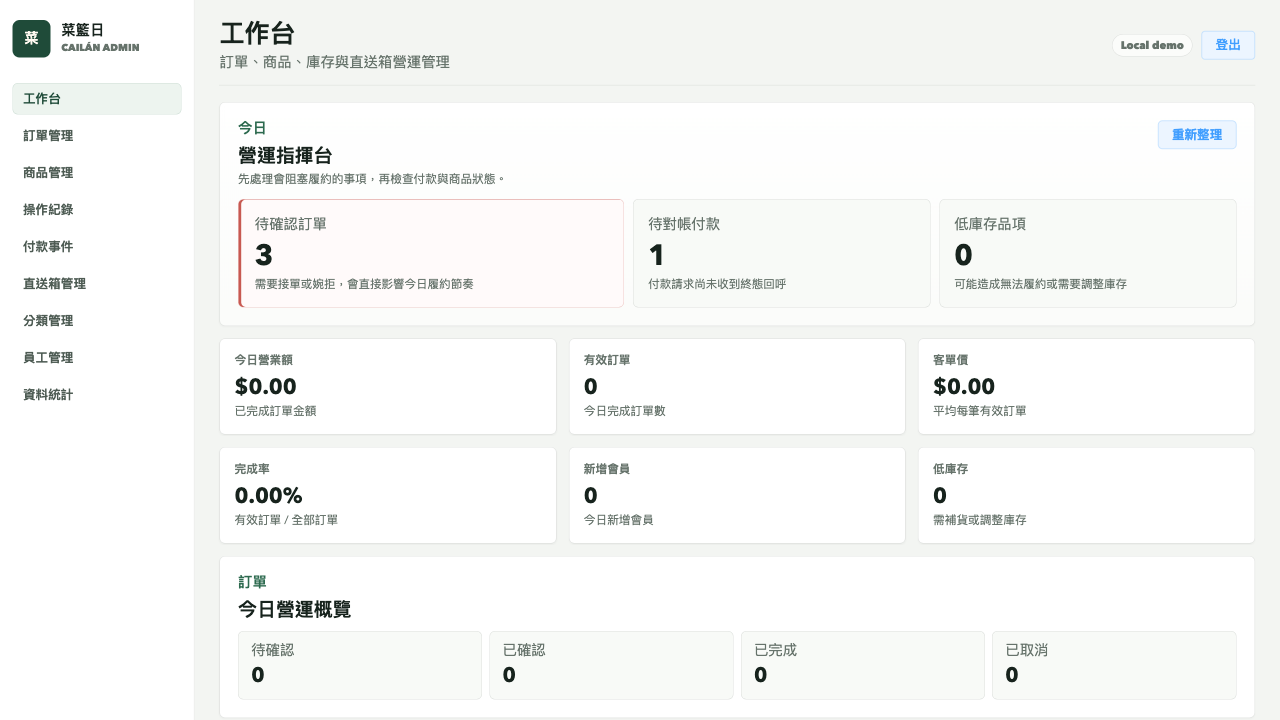
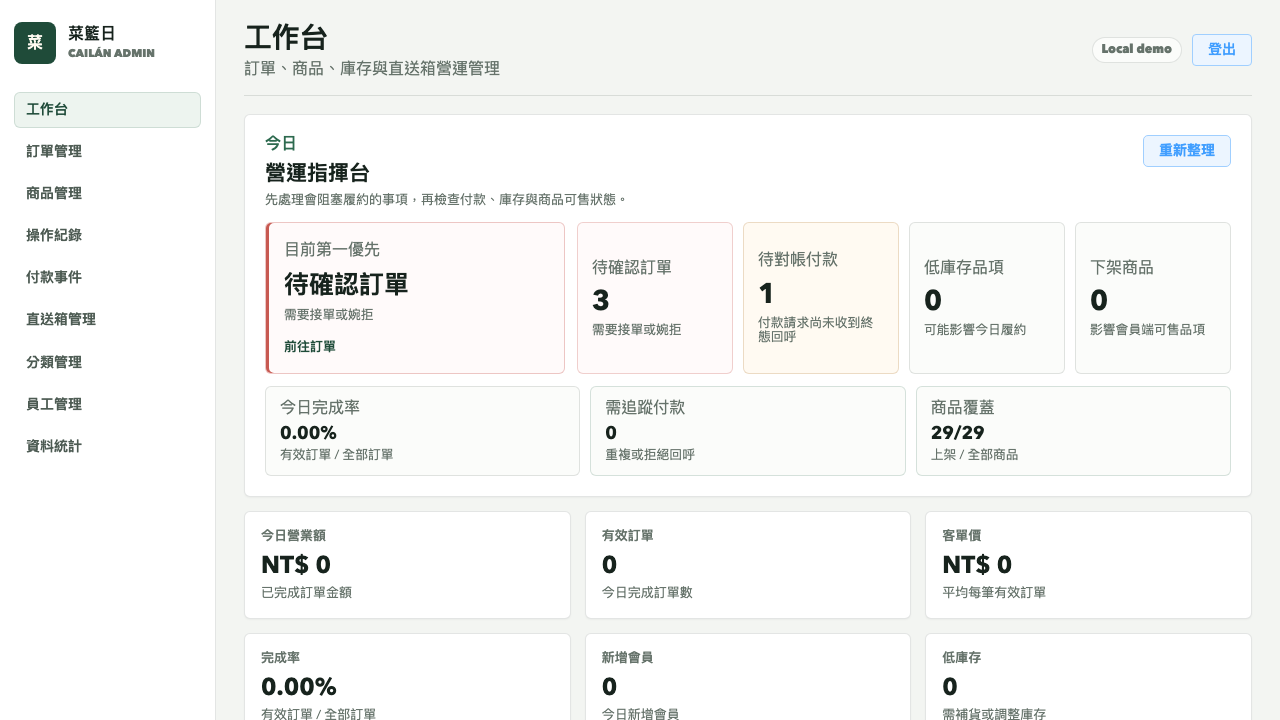
style: sharpen admin operations dashboard

diff --git a/frontend-environment/local-fresh-admin/src/views/vue3/DashboardView.vue b/frontend-environment/local-fresh-admin/src/views/vue3/DashboardView.vue
@@ -5,27 +5,41 @@
         <div>
           <p class="eyebrow">今日</p>
           <h2>營運指揮台</h2>
-          <span class="section-copy">先處理會阻塞履約的事項，再檢查付款與商品狀態。</span>
+          <span class="section-copy">先處理會阻塞履約的事項，再檢查付款、庫存與商品可售狀態。</span>
         </div>
         <el-button type="primary" plain @click="loadDashboard">重新整理</el-button>
       </div>
 
-      <div class="command-layout">
-        <button class="command-primary" type="button" @click="goToOrders(2)">
-          <span>待確認訂單</span>
-          <strong>{{ pendingOrders.length }}</strong>
-          <small>需要接單或婉拒，會直接影響今日履約節奏</small>
+      <div class="command-board">
+        <button class="priority-card" :class="primaryPriority.tone" type="button" @click="primaryPriority.onClick">
+          <span>目前第一優先</span>
+          <strong>{{ primaryPriority.label }}</strong>
+          <small>{{ primaryPriority.caption }}</small>
+          <b>{{ primaryPriority.actionLabel }}</b>
         </button>
-        <button class="command-secondary" type="button" @click="goToPaymentEvents({ result: 'PENDING' })">
-          <span>待對帳付款</span>
-          <strong>{{ pendingPaymentRequests.length }}</strong>
-          <small>付款請求尚未收到終態回呼</small>
-        </button>
-        <button class="command-secondary" type="button" @click="goToProducts(undefined, true)">
-          <span>低庫存品項</span>
-          <strong>{{ lowStockProducts.length }}</strong>
-          <small>可能造成無法履約或需要調整庫存</small>
-        </button>
+
+        <div class="priority-queue" aria-label="今日工作隊列">
+          <button
+            v-for="item in priorityCards"
+            :key="item.label"
+            class="queue-tile"
+            :class="item.tone"
+            type="button"
+            @click="item.onClick"
+          >
+            <span>{{ item.label }}</span>
+            <strong>{{ item.value }}</strong>
+            <small>{{ item.caption }}</small>
+          </button>
+        </div>
+      </div>
+
+      <div class="health-strip" aria-label="今日營運健康度">
+        <div v-for="item in healthIndicators" :key="item.label" class="health-item" :class="item.tone">
+          <span>{{ item.label }}</span>
+          <strong>{{ item.value }}</strong>
+          <small>{{ item.caption }}</small>
+        </div>
       </div>
     </article>
 
@@ -283,6 +297,70 @@ const orderCards = computed(() => [
 const paymentAttentionCount = computed(() => {
   return recentPaymentEvents.value.filter((item) => ['IGNORED', 'REJECTED'].includes(item.result)).length
 })
+const priorityCards = computed(() => [
+  {
+    label: '待確認訂單',
+    value: pendingOrders.value.length,
+    caption: '需要接單或婉拒',
+    actionLabel: '前往訂單',
+    tone: pendingOrders.value.length ? 'danger' : 'neutral',
+    onClick: () => goToOrders(2)
+  },
+  {
+    label: '待對帳付款',
+    value: pendingPaymentRequests.value.length,
+    caption: '付款請求尚未收到終態回呼',
+    actionLabel: '查看付款',
+    tone: pendingPaymentRequests.value.length ? 'warning' : 'neutral',
+    onClick: () => goToPaymentEvents({ result: 'PENDING' })
+  },
+  {
+    label: '低庫存品項',
+    value: lowStockProducts.value.length,
+    caption: '可能影響今日履約',
+    actionLabel: '檢查庫存',
+    tone: lowStockProducts.value.length ? 'danger' : 'neutral',
+    onClick: () => goToProducts(undefined, true)
+  },
+  {
+    label: '下架商品',
+    value: offlineProducts.value.length,
+    caption: '影響會員端可售品項',
+    actionLabel: '整理上架',
+    tone: offlineProducts.value.length ? 'warning' : 'neutral',
+    onClick: () => goToProducts(0)
+  }
+])
+const primaryPriority = computed(() => {
+  return priorityCards.value.find((item) => item.value > 0) || {
+    label: '營運狀態穩定',
+    value: 0,
+    caption: '目前沒有阻塞履約的事項，建議檢查商品資料與付款事件。',
+    actionLabel: '查看付款監控',
+    tone: 'success',
+    onClick: () => goToPaymentEvents()
+  }
+})
+const healthIndicators = computed(() => [
+  {
+    label: '今日完成率',
+    value: percent(businessData.value.orderCompletionRate),
+    caption: '有效訂單 / 全部訂單',
+    tone: Number(businessData.value.orderCompletionRate || 0) >= 0.8 ? 'success' : 'neutral'
+  },
+  {
+    label: '需追蹤付款',
+    value: paymentAttentionCount.value,
+    caption: '重複或拒絕回呼',
+    tone: paymentAttentionCount.value ? 'warning' : 'success'
+  },
+  {
+    label: '商品覆蓋',
+    value: `${productOverview.value.sold ?? 0}/${(productOverview.value.sold ?? 0) + (productOverview.value.discontinued ?? 0)}`,
+    caption: '上架 / 全部商品',
+    tone: (productOverview.value.discontinued ?? 0) ? 'warning' : 'success'
+  }
+])
 
 const paymentHealthCards = computed(() => [
   {
@@ -312,7 +390,8 @@ const paymentHealthCards = computed(() => [
 ])
 
 function money(value: number | undefined) {
-  return `$${Number(value || 0).toFixed(2)}`
+  const amount = Number(value || 0)
+  return `NT$ ${amount.toLocaleString('zh-TW', { minimumFractionDigits: 0, maximumFractionDigits: 2 })}`
 }
 
 function percent(value: number | undefined) {
@@ -494,17 +573,18 @@ h2 {
 }
 
 .command-card {
-  background: linear-gradient(180deg, #ffffff 0%, #fbfcfa 100%);
+  background: #ffffff;
 }
 
-.command-layout {
+.command-board {
   display: grid;
-  grid-template-columns: minmax(280px, 1.3fr) repeat(2, minmax(0, 1fr));
-  gap: 10px;
+  grid-template-columns: 300px minmax(0, 1fr);
+  gap: 12px;
+  align-items: stretch;
 }
 
-.command-primary,
-.command-secondary,
+.priority-card,
+.queue-tile,
 .overview-tile,
 .split-stat > div {
   border: 1px solid var(--admin-line);
@@ -513,46 +593,126 @@ h2 {
   text-align: left;
 }
 
-.command-primary,
-.command-secondary,
+.priority-card,
+.queue-tile,
 .overview-tile {
   cursor: pointer;
   transition: border-color 0.18s ease, background-color 0.18s ease;
 }
 
-.command-primary {
+.priority-card {
+  min-height: 150px;
   padding: 18px;
-  border-color: rgba(180, 35, 24, 0.22);
+  background: #fbfcfa;
+}
+
+.priority-card.danger {
+  border-color: rgba(180, 35, 24, 0.24);
   background: #fffafa;
   box-shadow: inset 3px 0 0 rgba(180, 35, 24, 0.75);
 }
 
-.command-secondary {
-  padding: 16px;
-  background: #f8faf7;
+.priority-card.warning {
+  border-color: rgba(167, 109, 34, 0.25);
+  background: #fffaf2;
+  box-shadow: inset 3px 0 0 rgba(167, 109, 34, 0.72);
 }
 
-.command-primary:hover,
-.command-secondary:hover,
+.priority-card.success {
+  border-color: rgba(45, 106, 79, 0.22);
+  background: #f8faf7;
+  box-shadow: inset 3px 0 0 rgba(45, 106, 79, 0.72);
+}
+
+.priority-card span,
+.priority-card small,
+.priority-card b,
+.queue-tile span,
+.queue-tile small,
+.health-item span,
+.health-item small {
+  display: block;
+  color: var(--admin-muted);
+}
+
+.priority-card strong {
+  display: block;
+  margin: 10px 0 8px;
+  font-size: 25px;
+  line-height: 1.2;
+}
+
+.priority-card b {
+  margin-top: 18px;
+  color: var(--admin-green-dark);
+  font-size: 13px;
+}
+
+.priority-queue {
+  display: grid;
+  grid-template-columns: repeat(4, minmax(0, 1fr));
+  gap: 10px;
+}
+
+.queue-tile {
+  min-width: 0;
+  min-height: 150px;
+  padding: 14px;
+  background: #fbfcfa;
+}
+
+.queue-tile.danger {
+  border-color: rgba(180, 35, 24, 0.2);
+  background: #fffafa;
+}
+
+.queue-tile.warning {
+  border-color: rgba(167, 109, 34, 0.22);
+  background: #fffaf2;
+}
+
+.queue-tile strong {
+  display: block;
+  margin: 10px 0 8px;
+  font-size: 28px;
+  line-height: 1;
+}
+
+.priority-card:hover,
+.queue-tile:hover,
 .overview-tile:hover {
   border-color: rgba(47, 107, 66, 0.35);
   background: #f5f8f3;
 }
 
-.command-primary span,
-.command-secondary span,
-.command-primary small,
-.command-secondary small {
-  display: block;
-  color: var(--admin-muted);
+.health-strip {
+  display: grid;
+  grid-template-columns: repeat(3, minmax(0, 1fr));
+  gap: 10px;
+  margin-top: 12px;
 }
 
-.command-primary strong,
-.command-secondary strong {
+.health-item {
+  min-width: 0;
+  padding: 12px 14px;
+  border: 1px solid var(--admin-line);
+  border-radius: 6px;
+  background: #fbfcfa;
+}
+
+.health-item.warning {
+  border-color: rgba(167, 109, 34, 0.2);
+  background: #fffaf2;
+}
+
+.health-item.success {
+  border-color: rgba(45, 106, 79, 0.18);
+}
+
+.health-item strong {
   display: block;
-  margin: 10px 0 8px;
-  font-size: 32px;
-  line-height: 1;
+  margin: 6px 0 4px;
+  font-size: 18px;
 }
 
 .overview-grid,
@@ -733,6 +893,9 @@ h2 {
     grid-template-columns: 1fr;
   }
 
+  .command-board,
+  .priority-queue,
+  .health-strip,
   .payment-ops-grid,
   .payment-health-grid {
     grid-template-columns: 1fr;

diff --git a/README.en.md b/README.en.md
@@ -66,7 +66,7 @@ Order totals, payment state, fulfillment state, item count, and a status timelin
 
 ### 7. Admin Dashboard — Operational Priorities
 
-The dashboard gives operators a daily view of revenue, order states, low-stock items, and priority queues.
+The dashboard turns pending orders, payment follow-up, stock risk, offline products, and product coverage into a prioritized operations command center.
 
 ![Admin Dashboard](docs/screenshots/07-admin-dashboard.png)
 

diff --git a/README.md b/README.md
@@ -67,7 +67,7 @@
 
 ### 7. 管理端工作台 — 營運優先順序
 
-管理端提供今日營業額、訂單狀態、低庫存與待處理事項，作為後台營運入口。
+管理端以第一優先事項、待確認訂單、待對帳付款、低庫存、下架商品與商品覆蓋率建立營運指揮台，讓管理者先處理會阻塞履約的工作。
 
 ![管理端工作台](docs/screenshots/07-admin-dashboard.png)
 
